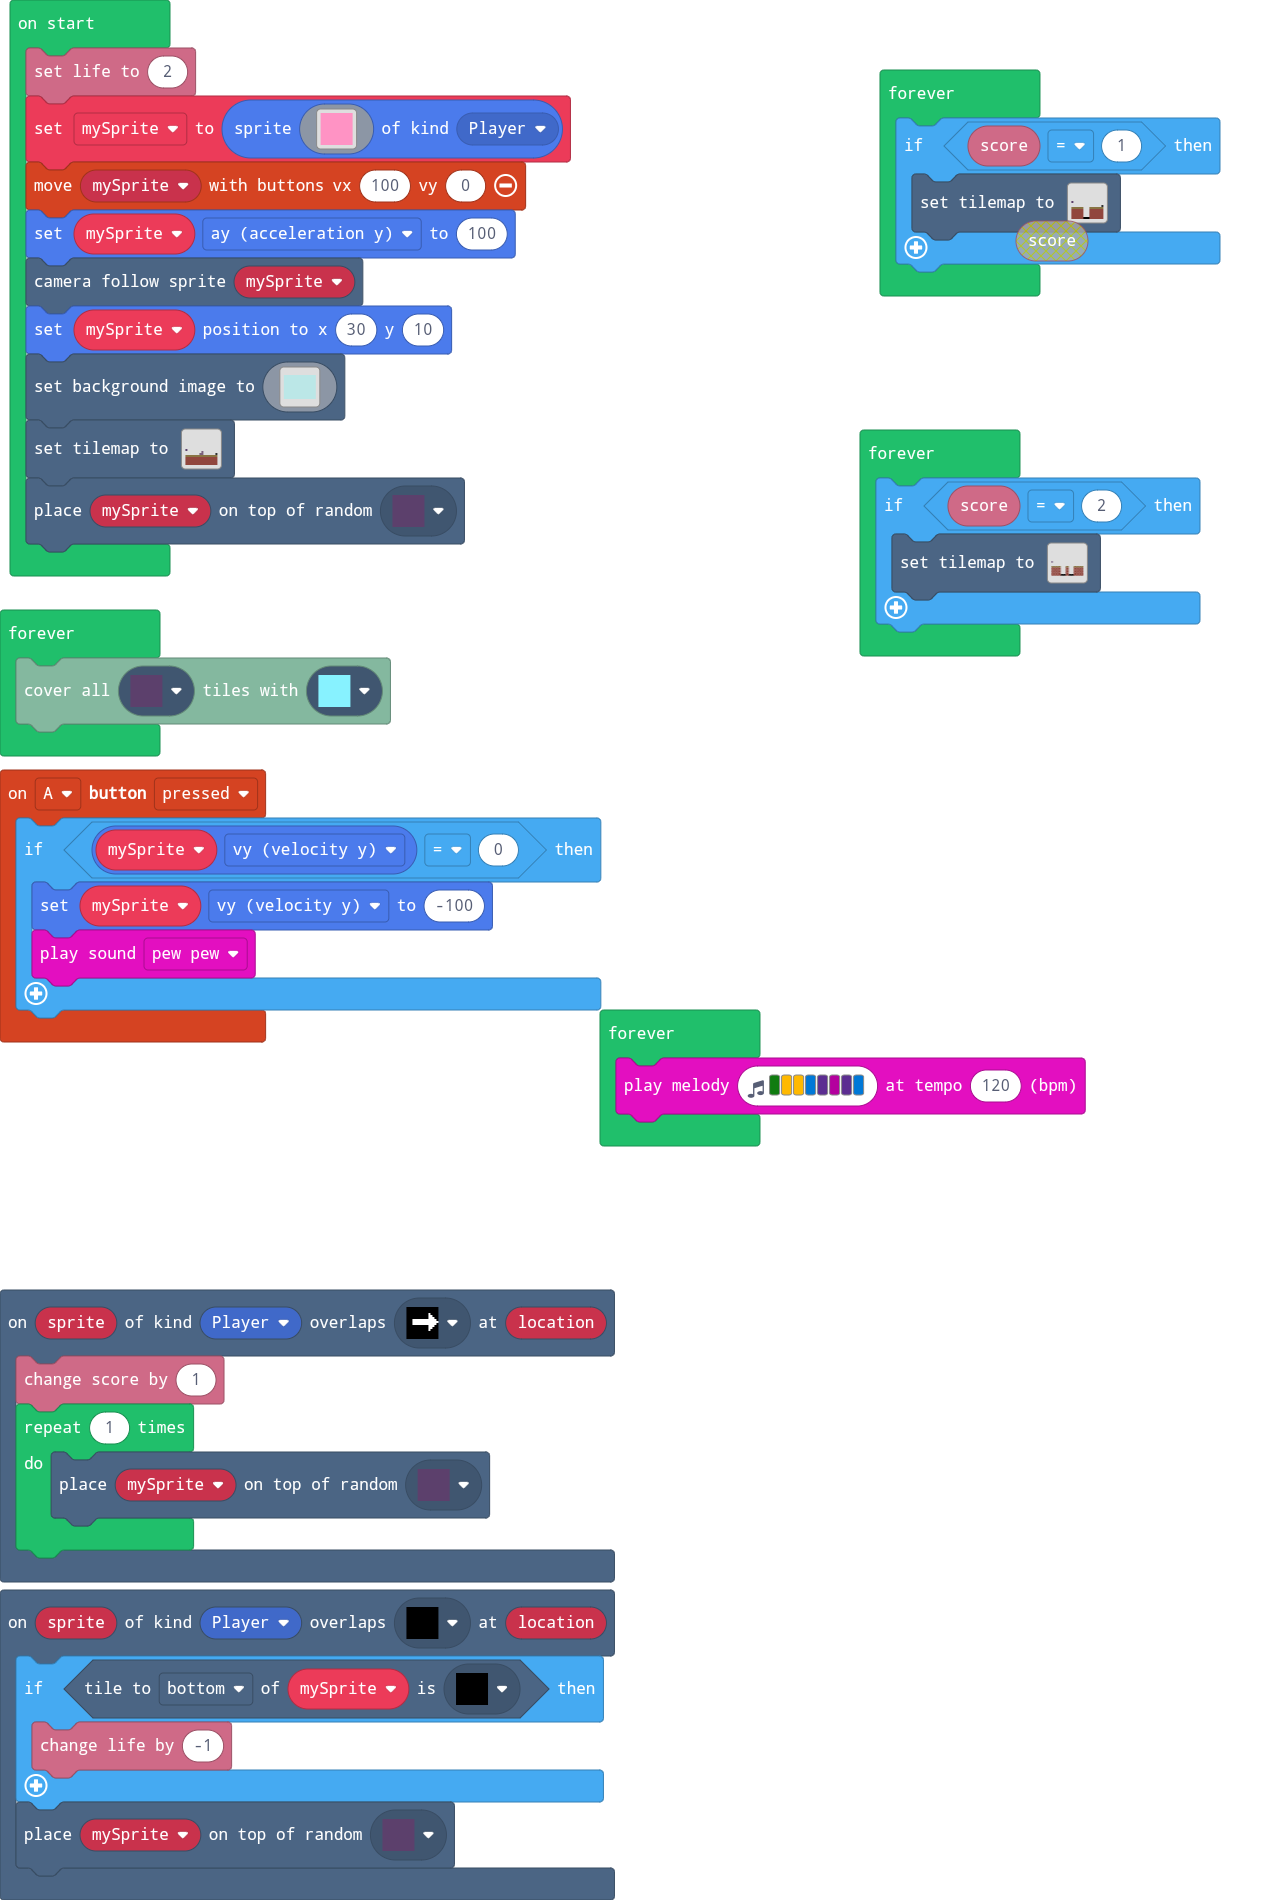
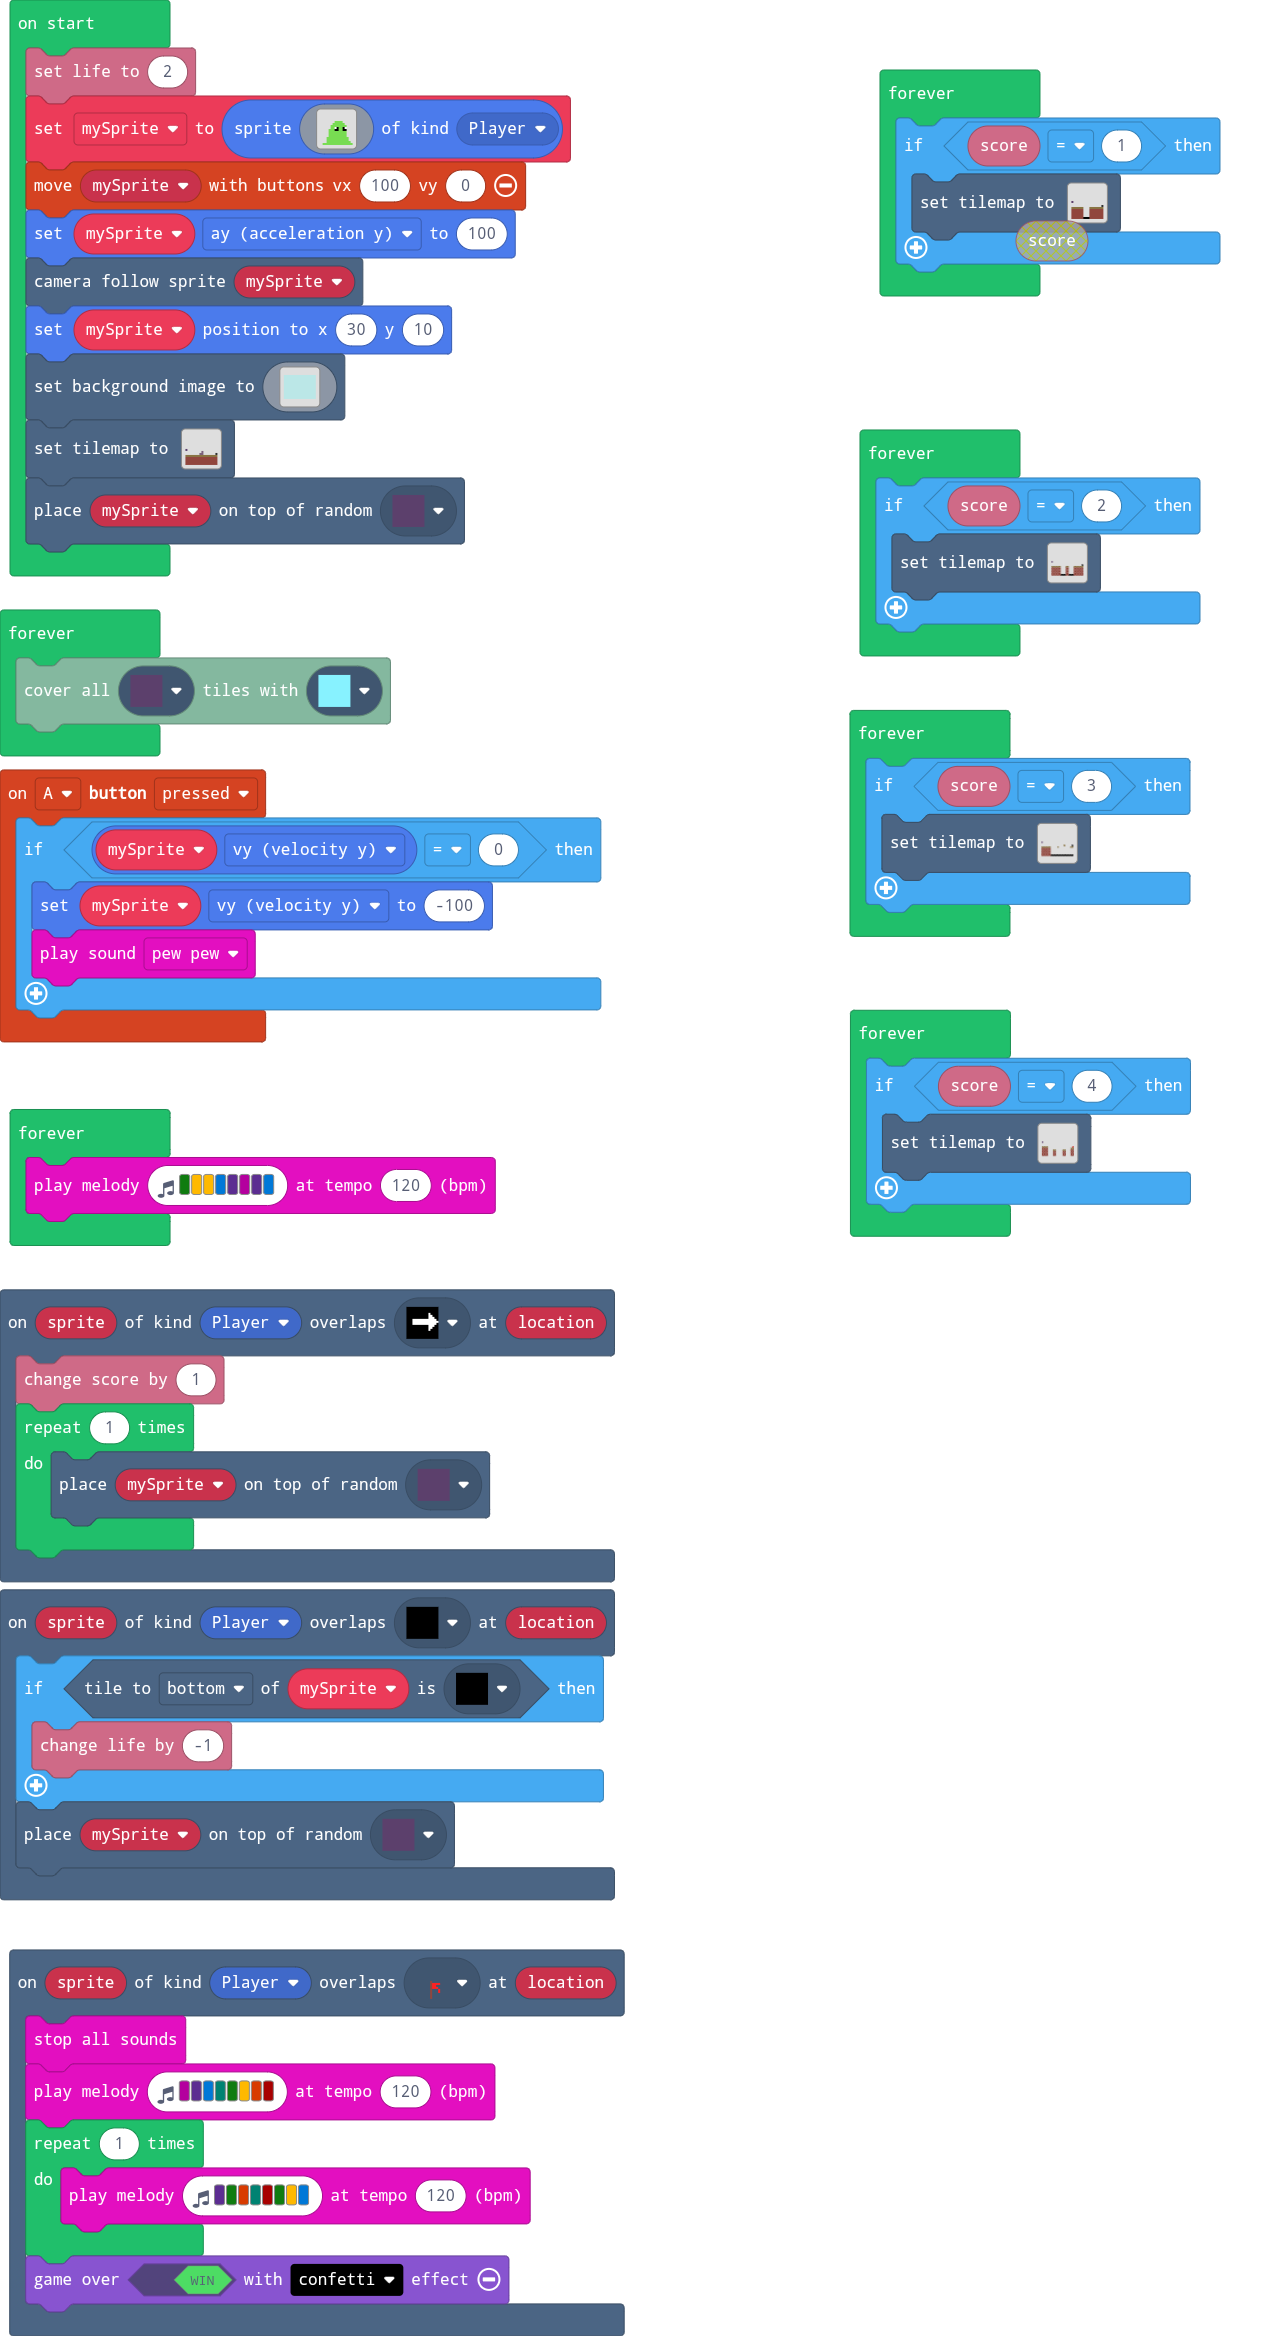
Added lv 4 and changed sprite

diff --git a/main.ts b/main.ts
@@ -1,3 +1,11 @@
+scene.onOverlapTile(SpriteKind.Player, myTiles.tile4, function (sprite, location) {
+    music.stopAllSounds()
+    music.playMelody("C D E F G A B C5 ", 120)
+    for (let index = 0; index < 1; index++) {
+        music.playMelody("D G B F C5 G A E ", 120)
+    }
+    game.over(true, effects.confetti)
+})
 controller.A.onEvent(ControllerButtonEvent.Pressed, function () {
     if (mySprite.vy == 0) {
         mySprite.vy = -100
@@ -19,22 +27,22 @@ scene.onOverlapTile(SpriteKind.Player, myTiles.tile10, function (sprite, locatio
 let mySprite: Sprite = null
 info.setLife(2)
 mySprite = sprites.create(img`
-    3 3 3 3 3 3 3 3 3 3 3 3 3 3 3 3 
-    3 3 3 3 3 3 3 3 3 3 3 3 3 3 3 3 
-    3 3 3 3 3 3 3 3 3 3 3 3 3 3 3 3 
-    3 3 3 3 3 3 3 3 3 3 3 3 3 3 3 3 
-    3 3 3 3 3 3 3 3 3 3 3 3 3 3 3 3 
-    3 3 3 3 3 3 3 3 3 3 3 3 3 3 3 3 
-    3 3 3 3 3 3 3 3 3 3 3 3 3 3 3 3 
-    3 3 3 3 3 3 3 3 3 3 3 3 3 3 3 3 
-    3 3 3 3 3 3 3 3 3 3 3 3 3 3 3 3 
-    3 3 3 3 3 3 3 3 3 3 3 3 3 3 3 3 
-    3 3 3 3 3 3 3 3 3 3 3 3 3 3 3 3 
-    3 3 3 3 3 3 3 3 3 3 3 3 3 3 3 3 
-    3 3 3 3 3 3 3 3 3 3 3 3 3 3 3 3 
-    3 3 3 3 3 3 3 3 3 3 3 3 3 3 3 3 
-    3 3 3 3 3 3 3 3 3 3 3 3 3 3 3 3 
-    3 3 3 3 3 3 3 3 3 3 3 3 3 3 3 3 
+    . . . . . . . . . . . . . . . . 
+    . . . . . . . . . . . . . . . . 
+    . . . . . . . . . . . . . . . . 
+    . . . . . . . . . . . . . . . . 
+    . . . . . . . 7 7 7 7 . . . . . 
+    . . . . . . 7 7 7 7 7 7 . . . . 
+    . . . . . 7 7 7 7 7 7 7 7 . . . 
+    . . . . . 7 7 1 f 7 7 f 1 . . . 
+    . . . . 7 7 7 f f 7 7 f f . . . 
+    . . . . 7 7 7 7 7 7 7 7 7 . . . 
+    . . . . 7 7 7 7 7 7 7 7 7 . . . 
+    . . . . 7 7 7 7 7 7 7 7 7 . . . 
+    . . . 7 7 7 7 7 7 7 7 7 7 7 . . 
+    . . . 7 7 7 7 7 7 7 7 7 7 7 . . 
+    . . . 7 7 7 7 7 7 7 7 7 7 7 7 . 
+    . 7 7 7 7 7 7 7 7 7 7 7 7 7 7 7 
     `, SpriteKind.Player)
 controller.moveSprite(mySprite, 100, 0)
 mySprite.ay = 100
@@ -205,7 +213,7 @@ forever(function () {
 })
 forever(function () {
     if (info.score() == 2) {
-        tiles.setTilemap(tiles.createTilemap(hex`140010000000000000000000000000000000000000000000000000000000000000000000000000000000000000000000000000000000000000000000000000000000000000000000000000000000000000000000000000000000000000000000000000000000000000000000000000000000000000000000000000000000000000000000000000000000000000000000010000000000000000000000000000000000000000000000000000000000000000000000000000000000000000000000000000000000000000000000020202020202000000020200000002020202020203030303030300000003030000000303030303030303030303030000000303000000030303030303030303030303000000030300000003030303030303030303030300000003030000000303030303030303030303030404040303040404030303030303`, img`
+        tiles.setTilemap(tiles.createTilemap(hex`140010000000000000000000000000000000000000000000000000000000000000000000000000000000000000000000000000000000000000000000000000000000000000000000000000000000000000000000000000000000000000000000000000000000000000000000000000000000000000000000000000000000000000000000000000000000000000000000010000000000000000000000000000000000000000000000000000000000000000000000000000000000000000000000000000000000000000000005020202020202000000020200000002020202020203030303030300000003030000000303030303030303030303030000000303000000030303030303030303030303000000030300000003030303030303030303030300000003030000000303030303030303030303030404040303040404030303030303`, img`
             ....................
             ....................
             ....................
@@ -222,11 +230,55 @@ forever(function () {
             222222...22...222222
             222222...22...222222
             222222...22...222222
-            `, [myTiles.transparency16,myTiles.tile3,myTiles.tile1,myTiles.tile8,myTiles.tile10], TileScale.Sixteen))
+            `, [myTiles.transparency16,myTiles.tile3,myTiles.tile1,myTiles.tile8,myTiles.tile10,myTiles.tile9], TileScale.Sixteen))
     }
 })
 forever(function () {
     tiles.coverAllTiles(myTiles.tile3, myTiles.tile2)
+})
+forever(function () {
+    if (info.score() == 3) {
+        tiles.setTilemap(tiles.createTilemap(hex`140010000000000000000000000000000000000000000000000000000000000000000000000000000000000000000000000000000000000000000000000000000000000000000000000000000000000000000000000000000000000000000000000000000000000000000000000000000000000000000000000000000000000000000000000000000000000000000000010000000000000000000000000000000000000000000000000000000000000000000000000000000000000000000000000000000000020000000005020202020202000000000200000000000000020203030303030300000000000000000000000000000303030303030000000000000000000000000000030303030303000000000000000000000000000003030303030300000000000000000000000000000303030303030404040404040404040404040404`, img`
+            ....................
+            ....................
+            ....................
+            ....................
+            ....................
+            ....................
+            ....................
+            ....................
+            ....................
+            ..............2.....
+            222222....2.......22
+            222222..............
+            222222..............
+            222222..............
+            222222..............
+            222222..............
+            `, [myTiles.transparency16,myTiles.tile3,myTiles.tile1,myTiles.tile8,myTiles.tile10,myTiles.tile9], TileScale.Sixteen))
+    }
+})
+forever(function () {
+    if (info.score() == 4) {
+        tiles.setTilemap(tiles.createTilemap(hex`140010000000000000000000000000000000000000000000000000000000000000000000000000000000000000000000000000000000000000000000000000000000000000000000000000000000000000000000000000000000000000000000000000000000000000000000000000000000000000000000000000000000000000000000000000000000000000000000010000000000000000000000000000000000000000000000000000000000000000000000000000000000000000000000000000000000000000000000020202020000000000000000000000000000000403030303000000000000000000000000000002020303030300000002020000000002020000000303030303030000000303000000000303000000030303030303000000030300000000030300000003030303030300000003030000000003030000000303`, img`
+            ....................
+            ....................
+            ....................
+            ....................
+            ....................
+            ....................
+            ....................
+            ....................
+            ....................
+            ....................
+            2222................
+            2222..............22
+            2222...22....22...22
+            2222...22....22...22
+            2222...22....22...22
+            2222...22....22...22
+            `, [myTiles.transparency16,myTiles.tile3,myTiles.tile1,myTiles.tile8,myTiles.tile4], TileScale.Sixteen))
+    }
 })
 forever(function () {
     music.playMelody("G A A E D C D E ", 120)

diff --git a/tilemap.g.ts b/tilemap.g.ts
@@ -14,6 +14,8 @@ namespace myTiles {
     export const tile9 = image.ofBuffer(hex``);
     //% fixedInstance jres blockIdentity=images._tile
     export const tile10 = image.ofBuffer(hex``);
+    //% fixedInstance jres blockIdentity=images._tile
+    export const tile4 = image.ofBuffer(hex``);
 
 }
 // Auto-generated code. Do not edit.
